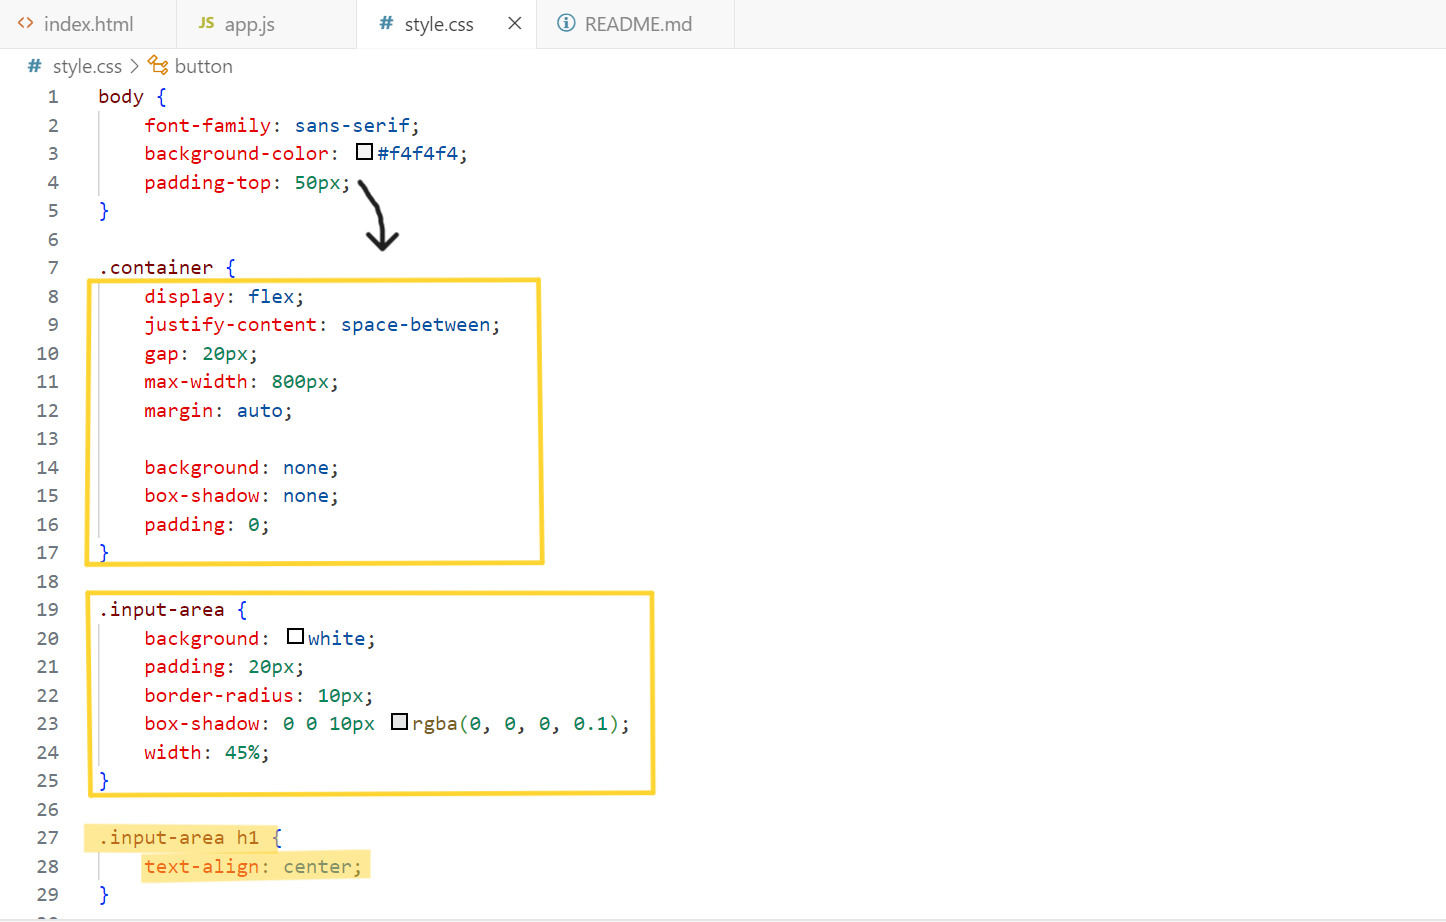
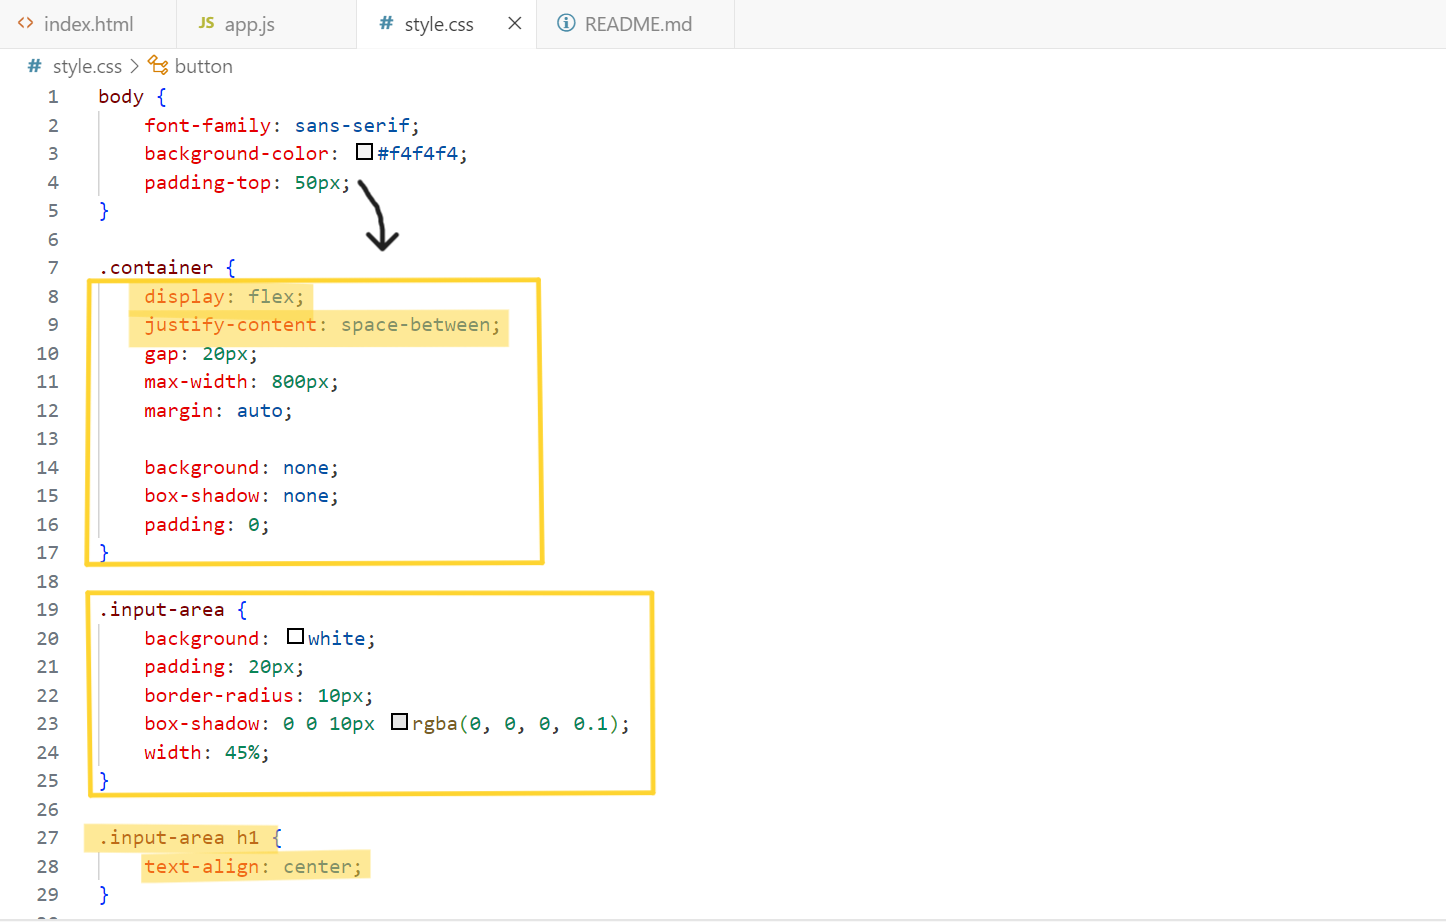
READMEを編集

Changed region(s): [[0.0622, 0.3037, 0.3734, 0.3948]]

diff --git a/README.md b/README.md
@@ -16,12 +16,16 @@ Todoリストアプリ　(作成開始日：7月5日)
 ・完成画面
 ![todo](images/todo1.png)
 これで基本となるtodoリストが出来ました！
-ですが、これだけまだ予定を入れるだけなのでここから入力した予定が画面右側に表示されるようにしていきます。
+ですが、これだけまだ予定を入れるだけなので  
+ここから入力した予定が画面右側に表示されるようにしていきます。
 
 まずはindex.htmlを変更していきます。
-クラスをinput-areaとtodo-displayの二つに分けて予定を入れる欄とそれを表示する欄を作りました。(マーカーの箇所)
+クラスをinput-areaとtodo-displayの二つに分けて予定を入れる欄と  
+それを表示する欄を作りました。(マーカーの箇所)
 ![index](images/index2.png)
 
-次にstyle.cssも変更します。
+次にstyle.cssも変更します。  
+始めに作成したstyle.cssはbodyの中にdisplayとjustify-contentが入っていましたが、.containerの中に移動します。  
+こうすることで入力欄と表示欄が横並びになり、見やすくなります！
 ![style2-1](images/style2-1.png)
 ![style2-2](images/style2-2.png)
